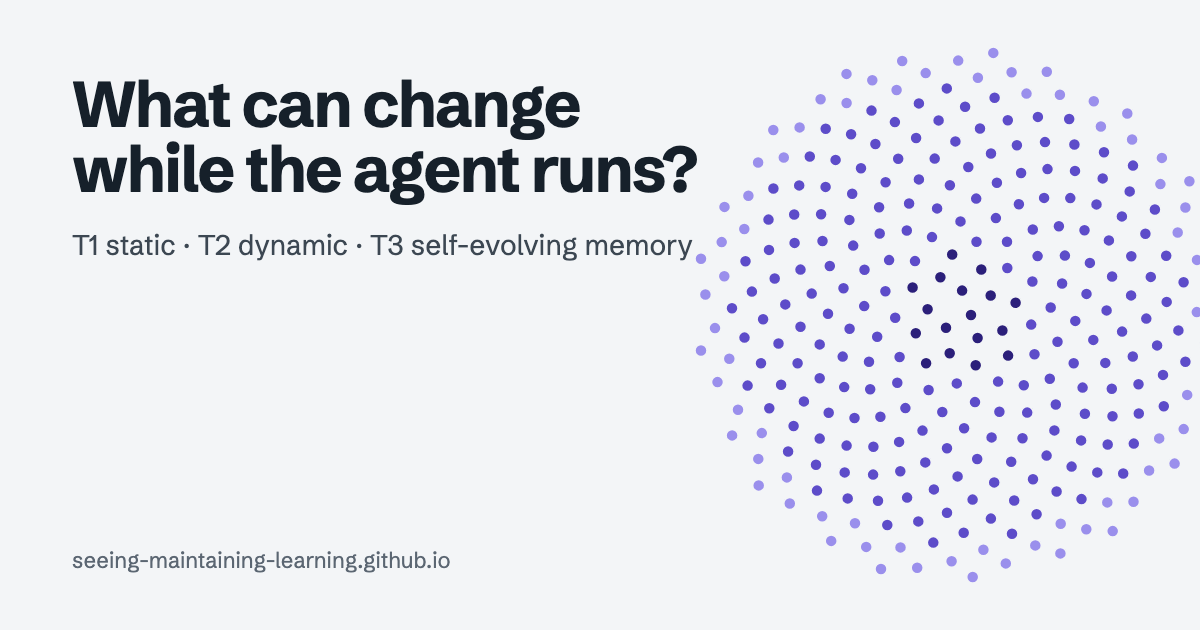
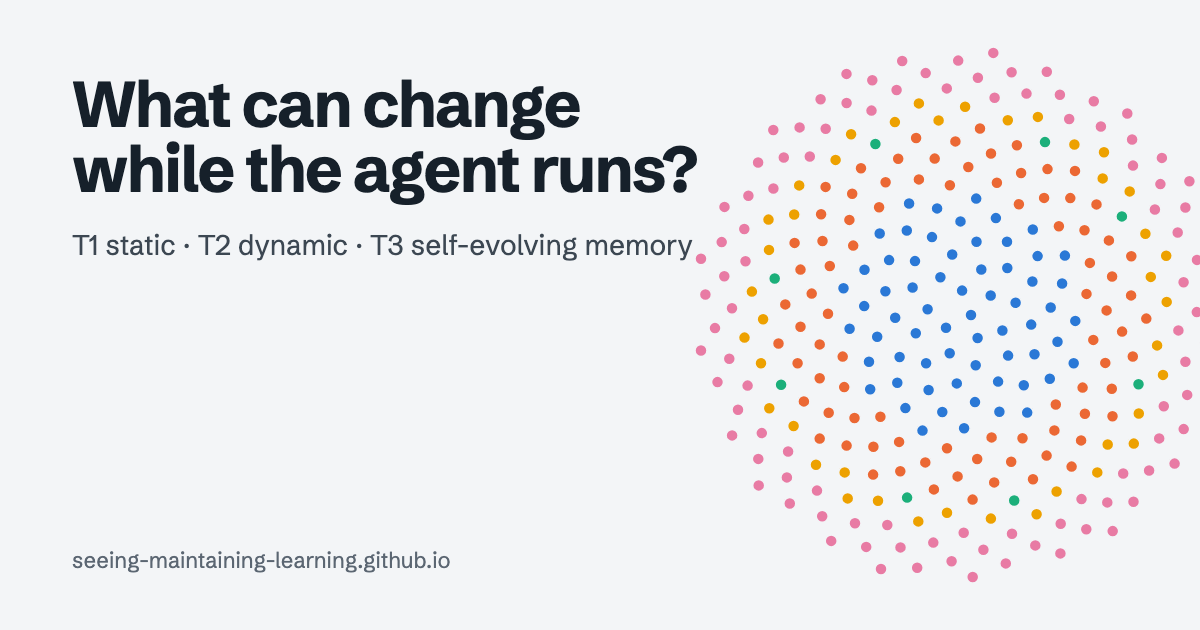
fix(a11y): counter values and river play button names; recolor OG images by modality

diff --git a/src/components/viz/PaperRiver.svelte b/src/components/viz/PaperRiver.svelte
@@ -192,8 +192,9 @@
 
 <div class="river">
   <div class="bar">
-    <button class="play" type="button" onclick={play} aria-label={playing ? 'Pause timeline' : 'Play timeline'}>
-      {playing ? '❚❚ Pause' : now >= T1 - 0.01 ? '↺ Replay' : '▶ Play'}
+    <button class="play" type="button" onclick={play}>
+      <span aria-hidden="true">{playing ? '❚❚' : now >= T1 - 0.01 ? '↺' : '▶'}</span>
+      {playing ? 'Pause' : now >= T1 - 0.01 ? 'Replay' : 'Play'}
     </button>
     <label class="scrub">
       <span class="sr-only">Show papers up to</span>

diff --git a/src/components/viz/RollingCounter.svelte b/src/components/viz/RollingCounter.svelte
@@ -27,7 +27,8 @@
   {#each items as it, k (it.label)}
     <div class="c">
       <dt>{it.label}</dt>
-      <dd aria-label={String(it.value)}>
+      <dd>
+        <span class="sr-only">{it.value.toLocaleString('en-US')}</span>
         {#each digits(it.value) as d, i (i)}
           {#if /\d/.test(d)}
             <span class="slot" aria-hidden="true">
